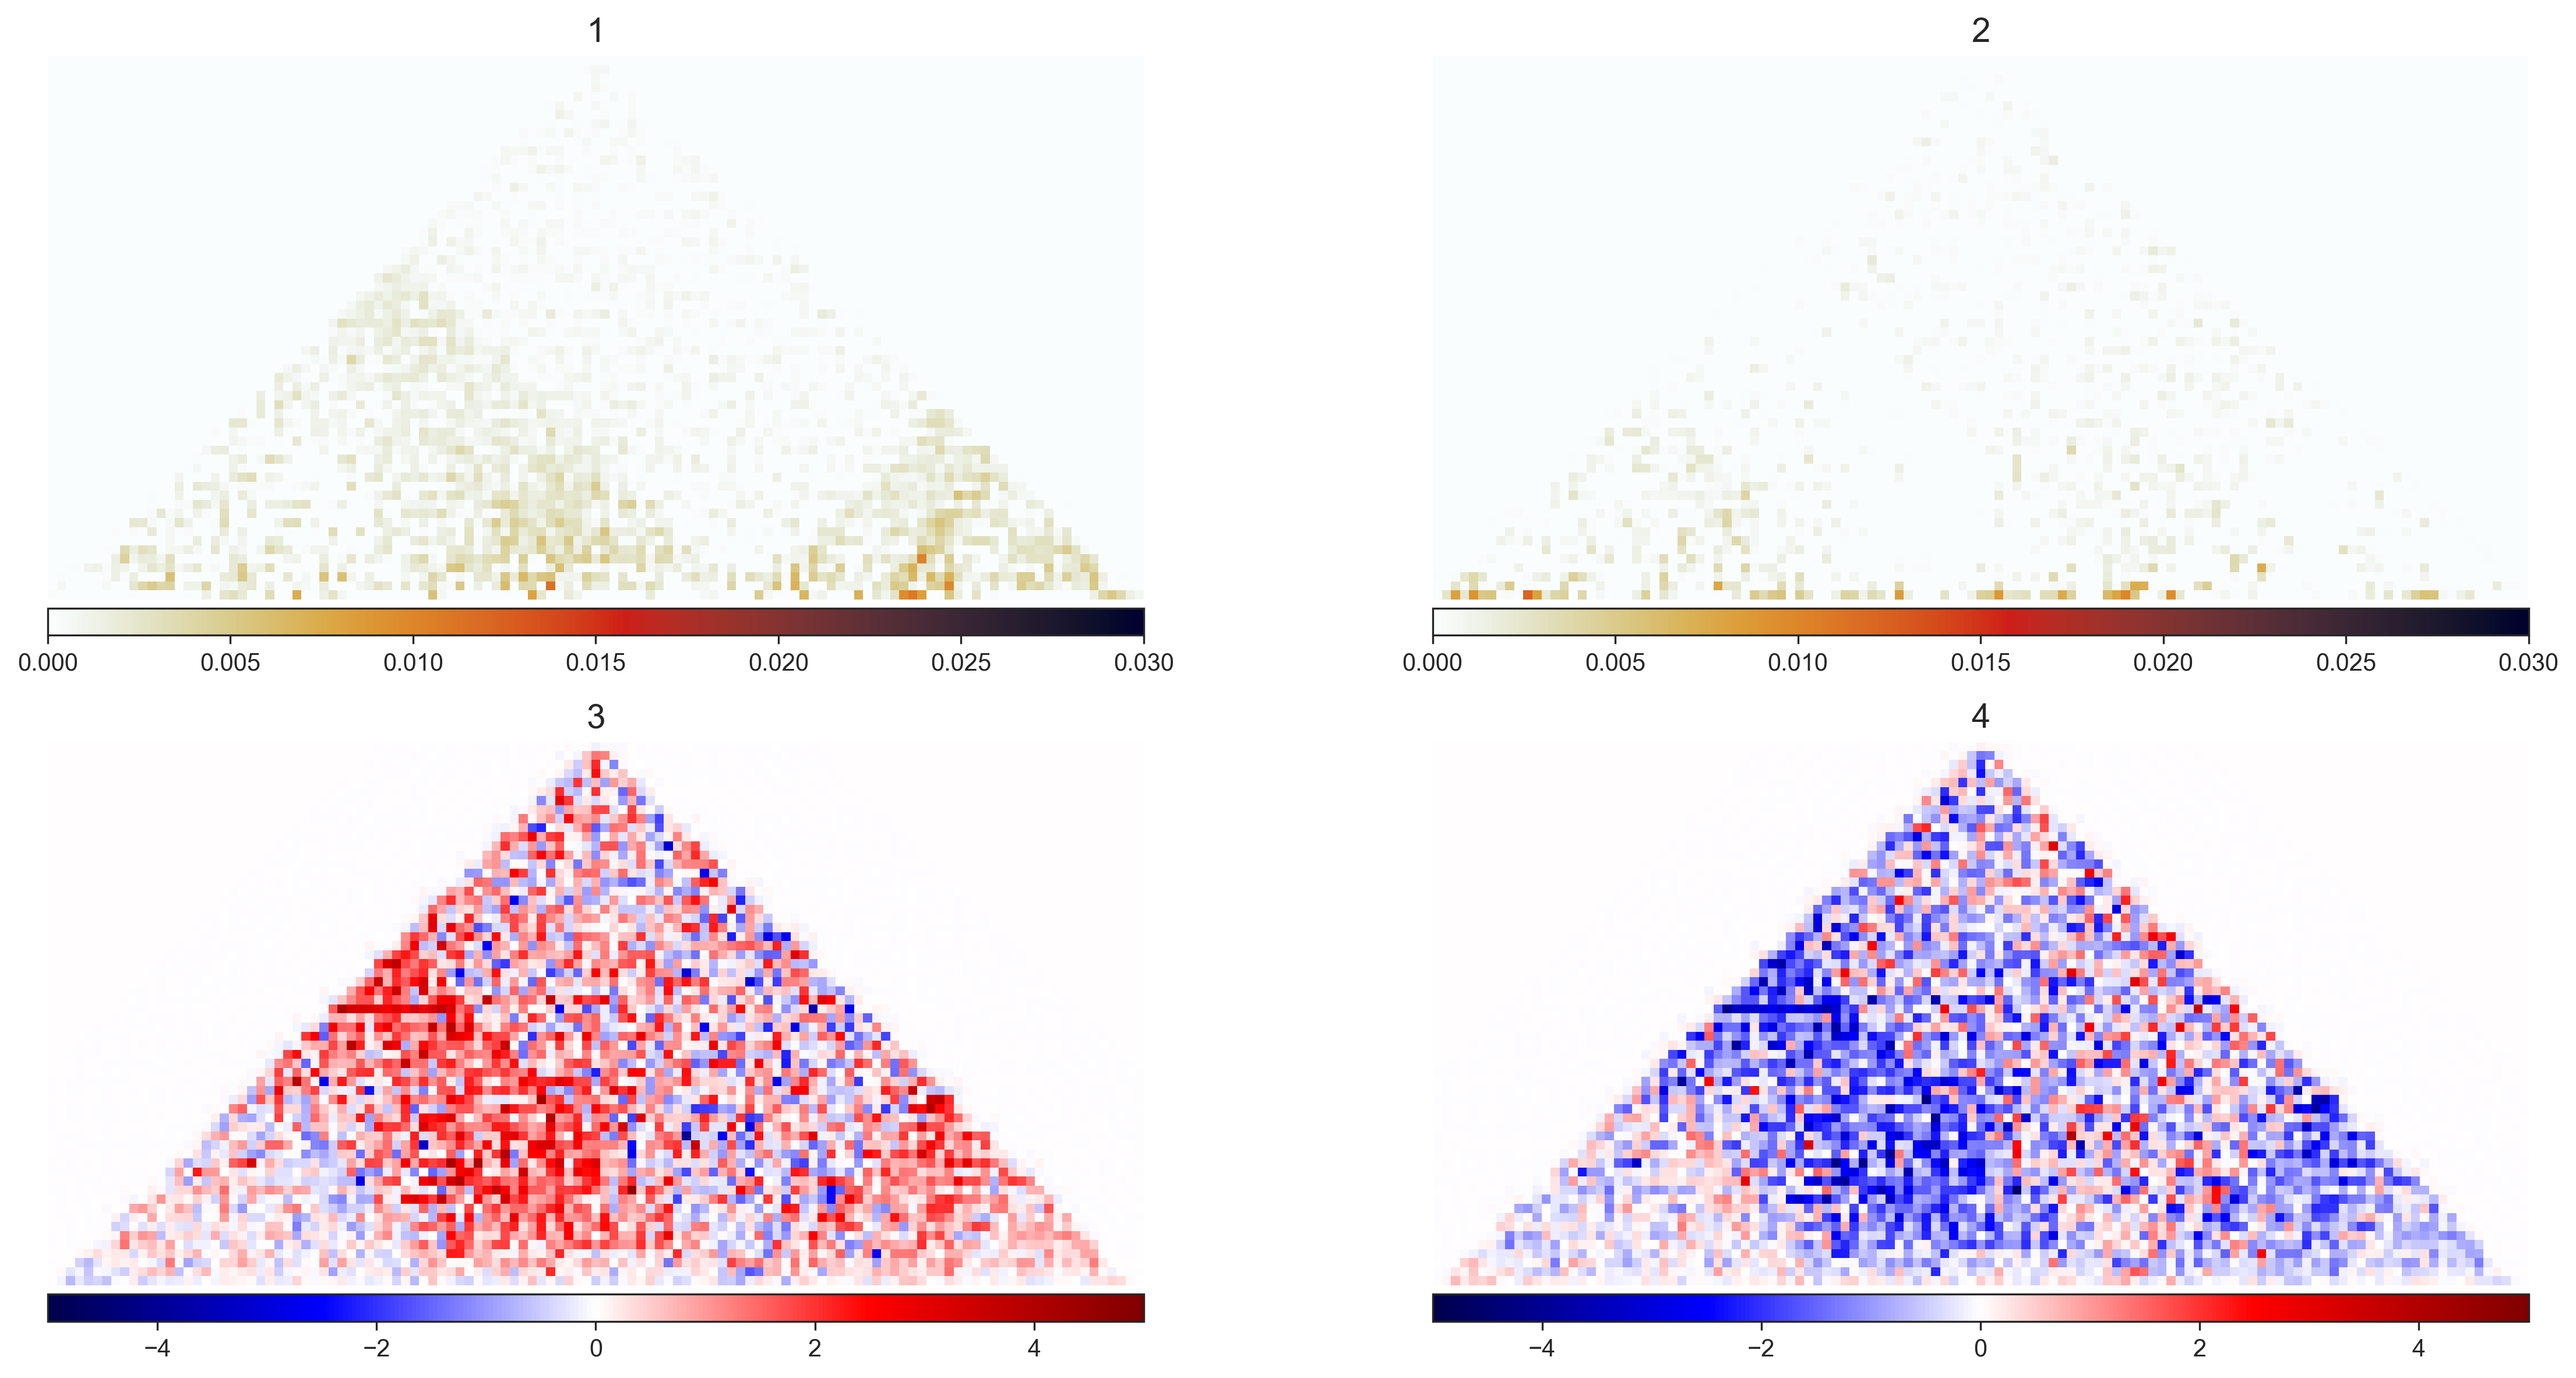
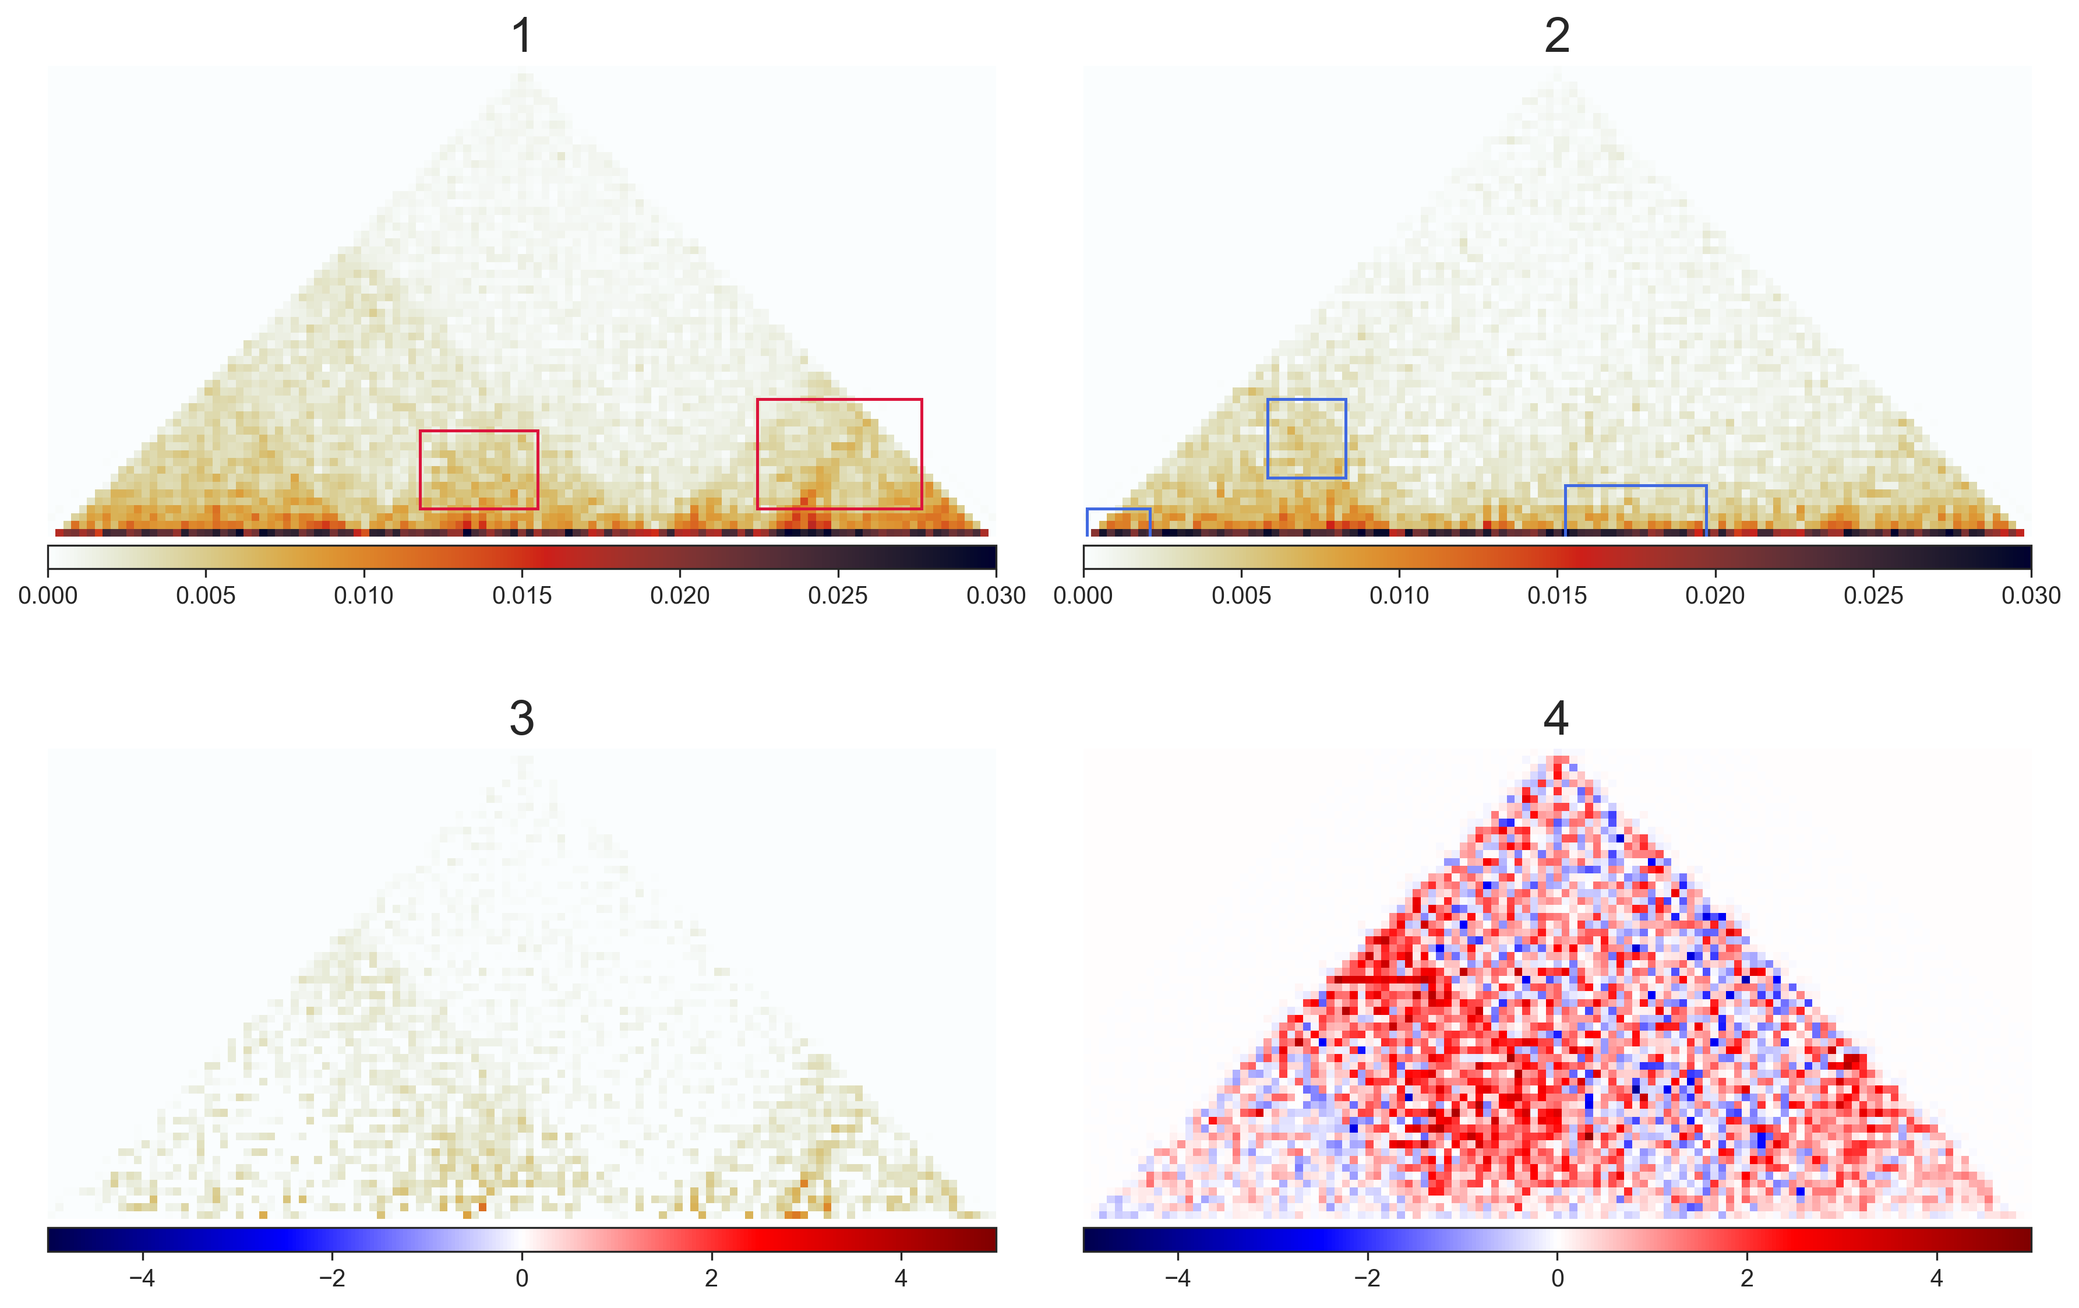
updated with plots used in paper

diff --git a/all_plots/README.md b/all_plots/README.md
@@ -1,30 +1,24 @@
 ## all plots from hic experiments
 this dir contains all the plots from following hic experiments. see the sample outputs below and their captions.
 
-every experiment is outlined below, organized in sections by the data that was input. every data group had the following experiments conducted on it:
+every experiment is outlined below. the following experiments are applied onto the dlbcl dataset:
 * `simple_diff` - takes simple diff of two hic matrices to expose areas of difference.
 * `pca_hic` - applies pca to hic matrix1 and matrix2. reduces noise on the matrices before comparing them. includes stat to determine which window size best eliminates noise.
 * `autoencoder_hic` - applies autoencoder to hic matrices to remove noise. autoencoder is trained on original matrix and used to denoise the query matrix. 
+* TODO add more
 
-### dlbcl 
+### dlbcl dataset info
 using data with chromatin conformation changes in B-cells of a diffuse large B-cell lymphoma (DLBCL) patient.
-comparing chromosome 2 for differences with 3 Mb window size, stepping 100 kb. 
+comparing chromosome 2 for differences with 3 Mb window size, stepping 100 kb. [Data Availability](https://en.wikipedia.org/wiki/Diffuse_large_B-cell_lymphoma)
 
 * original data
-![original data](dlbcl/original_data.png)
+![original data](dlbcl/simple_diff.png)
 Figure 1 <br>
 caption: <br>
 Figure 1.1: raw data of patient dlbcl sample from chess with red bounding boxes representing gained features from control sample <br>
 Figure 1.2: raw data of control dlbcl sample from dlbcl with blue bounding boxes representing lost features that did not carry over to patient <br>
-
-* `simple_diff`
-![simple diff](dlbcl/simple_diff.png)
-Figure 2 <br>
-caption:  <br>
-Figure 2.1: simple diff of patient - control <br>
-Figure 2.2: simple diff of control - patient <br>
-Figure 2.3: log transformation of patient/control <br>
-Figure 2.4: log transformation control/patient <br>
+Figure 1.3: simple diff of patient - control <br>
+Figure 1.4: log2(patient/control) <br>
 
 stats: <br>
 
@@ -36,59 +30,18 @@ experiment used a 3x3 window size. <br>
 Figure 3.1: PCA applied to on patient <br>
 Figure 3.2: PCA applied to control <br>
 Figure 3.3: Difference of PCA patient - control <br>
-Figure 3.4: Difference of PCA control - patient <br>
-Figure 3.5: log transformation of PCA applied patient/control <br>
-Figure 3.6: log transformation of regular patient/control <br>
+Figure 3.4: log transformation of PCA applied patient/control <br>
 
 stats: <br>
-
 
 * `autoencoder_hic`
 ![autoencoder_pca](dlbcl/autoencoder_hic.png)
 Figure 4 <br>
 caption: <br>
-
-stats: <br>
-
-### synthetic data from GSE50199
-[FreeHiC](https://github.com/yezhengSTAT/FreeHiC) generates a simulated version of the [Plasmodium falciparum genome Trophozoite stage](https://noble.gs.washington.edu/proj/plasmo3d/) based on the following [parameters](https://github.com/yezhengSTAT/FreeHiC/blob/master/FreeHiC_parameters). the simulated chr1 region is compared to the original chr1 region in this experiment. 
-
-* original data
-![original syn data](syn/original_data.png)
-Figure 5 <br>
-caption: <br>
-Figure 5.1: original data of GSE50199 <br>
-Figure 5.2: simulated GSE50199 based on changes in above parameters configuration <br>
-
-stats: <br>
-
-* `simple_diff`
-![simple diff](syn/simple_diff.png)
-Figure 6 <br>
-caption: <br>
-Figure 6.1: diff of original - simulated <br>
-Figure 6.2: diff of simulated - original <br>
-
-stats: <br>
-
-* `pca_hic` 
-![pca hic](syn/pca_hic.png)
-Figure 7 <br>
-experiment used a 5x5 window size. <br>
-caption: <br>
-Figure 7.1: pca applied to original <br>
-Figure 7.2: pca applied to synthetic <br>
-Figure 7.3: diff of pca applied original - simulated  <br>
-Figure 7.4: diff of pca applied simulated - original <br>
-Figure 7.5: log2 of pca applied original / simulated <br>
-Figure 7.6: log2 of pca applied simulated / original <br>
-
-stats: <br>
-
-* `autoencoder_hic`
-![autoencoder hic](syn/autoencoder_hic.png)
-Figure 8 <br>
-caption: <br>
+Figure 4.1: autoencoder applied onto patient sample <br>
+Figure 4.2: autoencoder applied onto control sample <br>
+Figure 4.3: autoencoder applied patient - control <br>
+Figure 4.4: log transformation of autoencoder applied patient / control <br>
 
 stats: <br>
 
@@ -96,29 +49,31 @@ stats: <br>
 in this experiment, noise is added with gaussian blur layers to the dlbcl data. the experiments are conducted to see how well it removes the manually added noise.
 
 * original data
+noise added to original data in increments
 ![original syn data](noise/original_data.png)
-Figure 9 <br>
+Figure 5 <br>
 caption: <br>
-
-stats: <br>
-
-* `simple_diff`
-![simple diff](noise/simple_diff.png)
-Figure 10 <br>
-caption: <br>
+- first row is patient data with increasing noise
+- second row is control data with increasing noise 
 
 stats: <br>
 
 * `pca_hic` 
 ![pca hic](noise/pca_hic.png)
-Figure 11 <br>
+Figure 6 <br>
 caption: <br>
+- first row is pca applied onto patient noise data
+- second row is pca applied onto control noise data
+- third row is diff of respective pca applied patient - control 
 
 stats: <br>
 
 * `autoencoder_hic`
-![autoencoder hic](noise/autoencoder_hic)
-Figure 12 <br>
+![autoencoder hic](noise/autoencoder_hic.png)
+Figure 7 <br>
 caption: <br>
+- first row is autoencoder applied onto patient noise data
+- second row is autoencoder applied onto control noise data
+- third row is autoencoder of respective pca applied patient - control 
 
 stats: <br>

diff --git a/all_plots/README_copy.md b/all_plots/README_copy.md
@@ -1,0 +1,127 @@
+# OLD README
+this readme includes info about doing an experiment on synthetic data
+
+## all plots from hic experiments
+this dir contains all the plots from following hic experiments. see the sample outputs below and their captions.
+
+every experiment is outlined below, organized in sections by the data that was input. every data group had the following experiments conducted on it:
+* `simple_diff` - takes simple diff of two hic matrices to expose areas of difference.
+* `pca_hic` - applies pca to hic matrix1 and matrix2. reduces noise on the matrices before comparing them. includes stat to determine which window size best eliminates noise.
+* `autoencoder_hic` - applies autoencoder to hic matrices to remove noise. autoencoder is trained on original matrix and used to denoise the query matrix. 
+
+### dlbcl 
+using data with chromatin conformation changes in B-cells of a diffuse large B-cell lymphoma (DLBCL) patient.
+comparing chromosome 2 for differences with 3 Mb window size, stepping 100 kb. 
+
+* original data
+![original data](dlbcl/original_data.png)
+Figure 1 <br>
+caption: <br>
+Figure 1.1: raw data of patient dlbcl sample from chess with red bounding boxes representing gained features from control sample <br>
+Figure 1.2: raw data of control dlbcl sample from dlbcl with blue bounding boxes representing lost features that did not carry over to patient <br>
+
+* `simple_diff`
+![simple diff](dlbcl/simple_diff.png)
+Figure 2 <br>
+caption:  <br>
+Figure 2.1: simple diff of patient - control <br>
+Figure 2.2: simple diff of control - patient <br>
+Figure 2.3: log transformation of patient/control <br>
+Figure 2.4: log transformation control/patient <br>
+
+stats: <br>
+
+* `pca_hic`
+![pca_hic](dlbcl/pca_hic.png)
+Figure 3 <br>
+caption: <br>
+experiment used a 3x3 window size. <br>
+Figure 3.1: PCA applied to on patient <br>
+Figure 3.2: PCA applied to control <br>
+Figure 3.3: Difference of PCA patient - control <br>
+Figure 3.4: Difference of PCA control - patient <br>
+Figure 3.5: log transformation of PCA applied patient/control <br>
+Figure 3.6: log transformation of regular patient/control <br>
+
+stats: <br>
+
+
+* `autoencoder_hic`
+![autoencoder_pca](dlbcl/autoencoder_hic.png)
+Figure 4 <br>
+caption: <br>
+
+stats: <br>
+
+### synthetic data from GSE50199
+[FreeHiC](https://github.com/yezhengSTAT/FreeHiC) generates a simulated version of the [Plasmodium falciparum genome Trophozoite stage](https://noble.gs.washington.edu/proj/plasmo3d/) based on the following [parameters](https://github.com/yezhengSTAT/FreeHiC/blob/master/FreeHiC_parameters). the simulated chr1 region is compared to the original chr1 region in this experiment. 
+
+* original data
+![original syn data](syn/original_data.png)
+Figure 5 <br>
+caption: <br>
+Figure 5.1: original data of GSE50199 <br>
+Figure 5.2: simulated GSE50199 based on changes in above parameters configuration <br>
+
+stats: <br>
+
+* `simple_diff`
+![simple diff](syn/simple_diff.png)
+Figure 6 <br>
+caption: <br>
+Figure 6.1: diff of original - simulated <br>
+Figure 6.2: diff of simulated - original <br>
+
+stats: <br>
+
+* `pca_hic` 
+![pca hic](syn/pca_hic.png)
+Figure 7 <br>
+experiment used a 5x5 window size. <br>
+caption: <br>
+Figure 7.1: pca applied to original <br>
+Figure 7.2: pca applied to synthetic <br>
+Figure 7.3: diff of pca applied original - simulated  <br>
+Figure 7.4: diff of pca applied simulated - original <br>
+Figure 7.5: log2 of pca applied original / simulated <br>
+Figure 7.6: log2 of pca applied simulated / original <br>
+
+stats: <br>
+
+* `autoencoder_hic`
+![autoencoder hic](syn/autoencoder_hic.png)
+Figure 8 <br>
+caption: <br>
+
+stats: <br>
+
+### noise added to dlbcl data
+in this experiment, noise is added with gaussian blur layers to the dlbcl data. the experiments are conducted to see how well it removes the manually added noise.
+
+* original data
+![original syn data](noise/original_data.png)
+Figure 9 <br>
+caption: <br>
+
+stats: <br>
+
+* `simple_diff`
+![simple diff](noise/simple_diff.png)
+Figure 10 <br>
+caption: <br>
+
+stats: <br>
+
+* `pca_hic` 
+![pca hic](noise/pca_hic.png)
+Figure 11 <br>
+caption: <br>
+
+stats: <br>
+
+* `autoencoder_hic`
+![autoencoder hic](noise/autoencoder_hic)
+Figure 12 <br>
+caption: <br>
+
+stats: <br>
